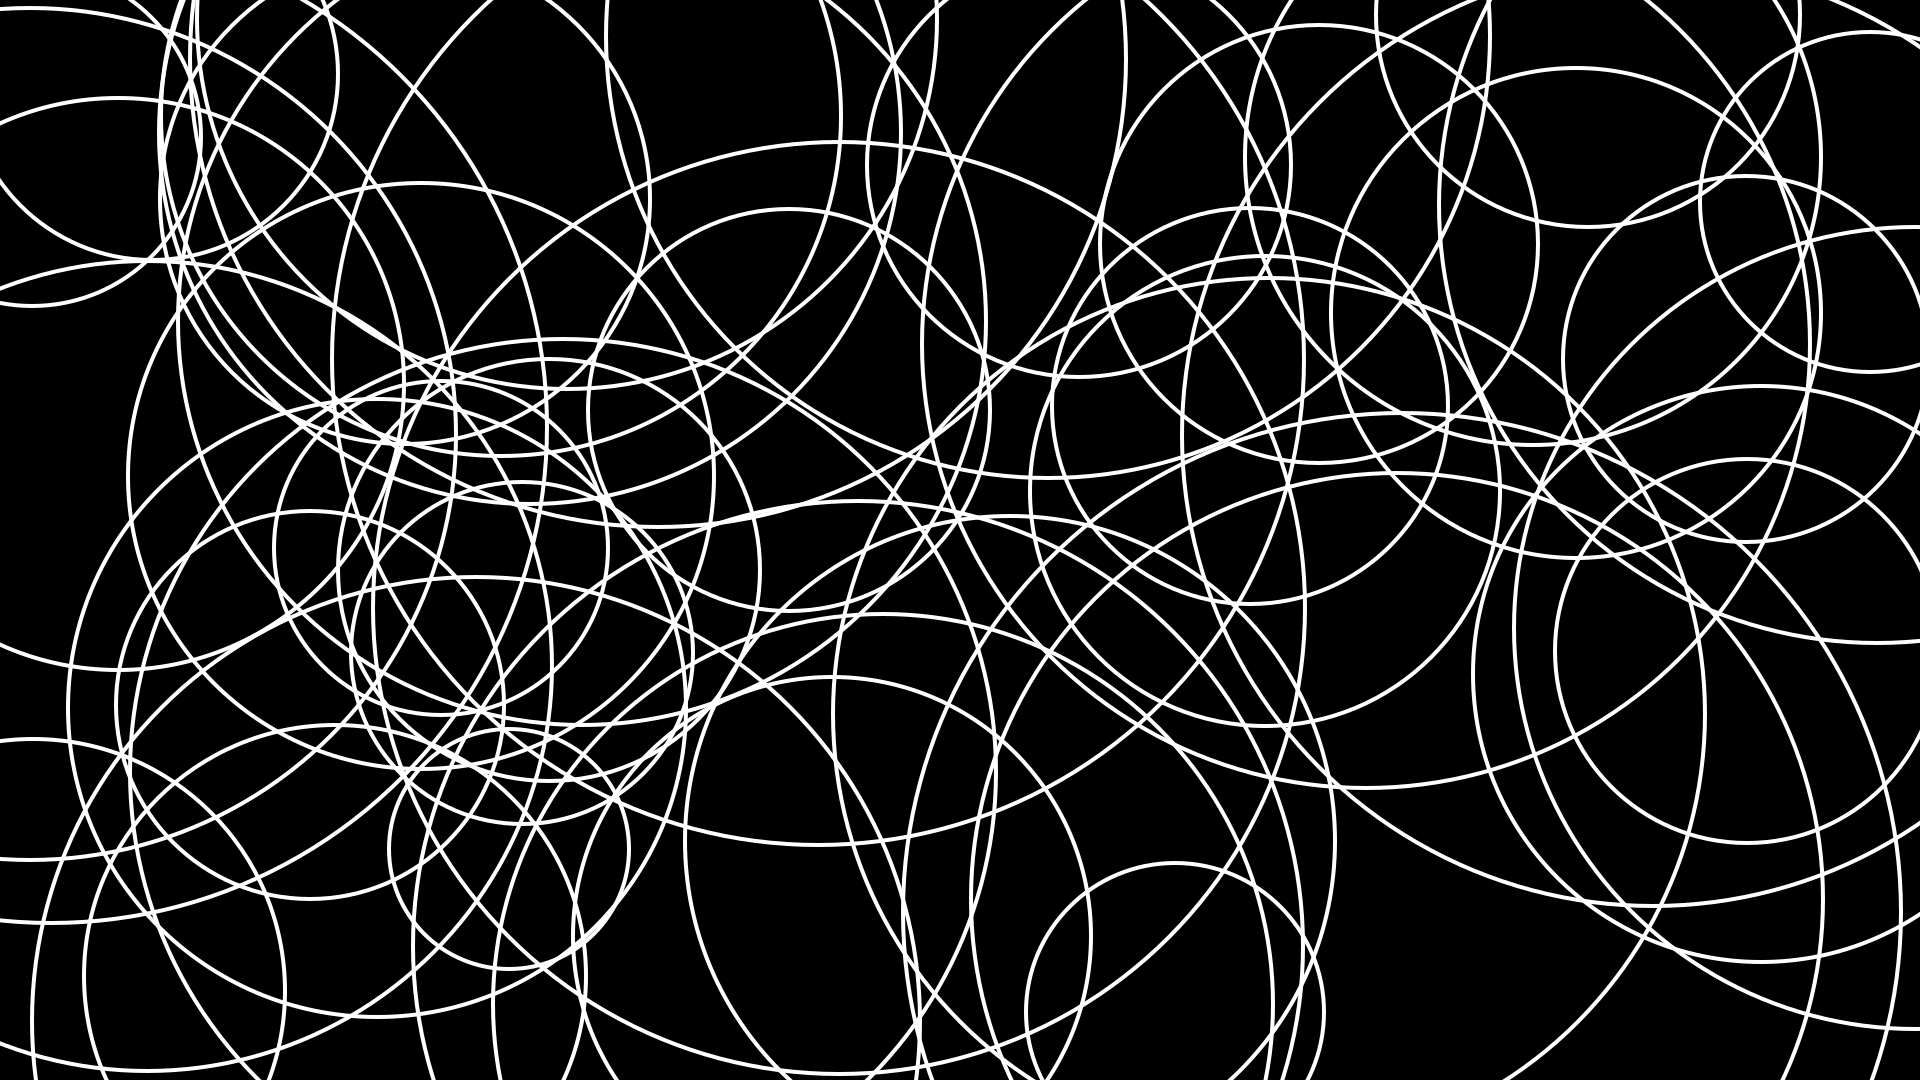
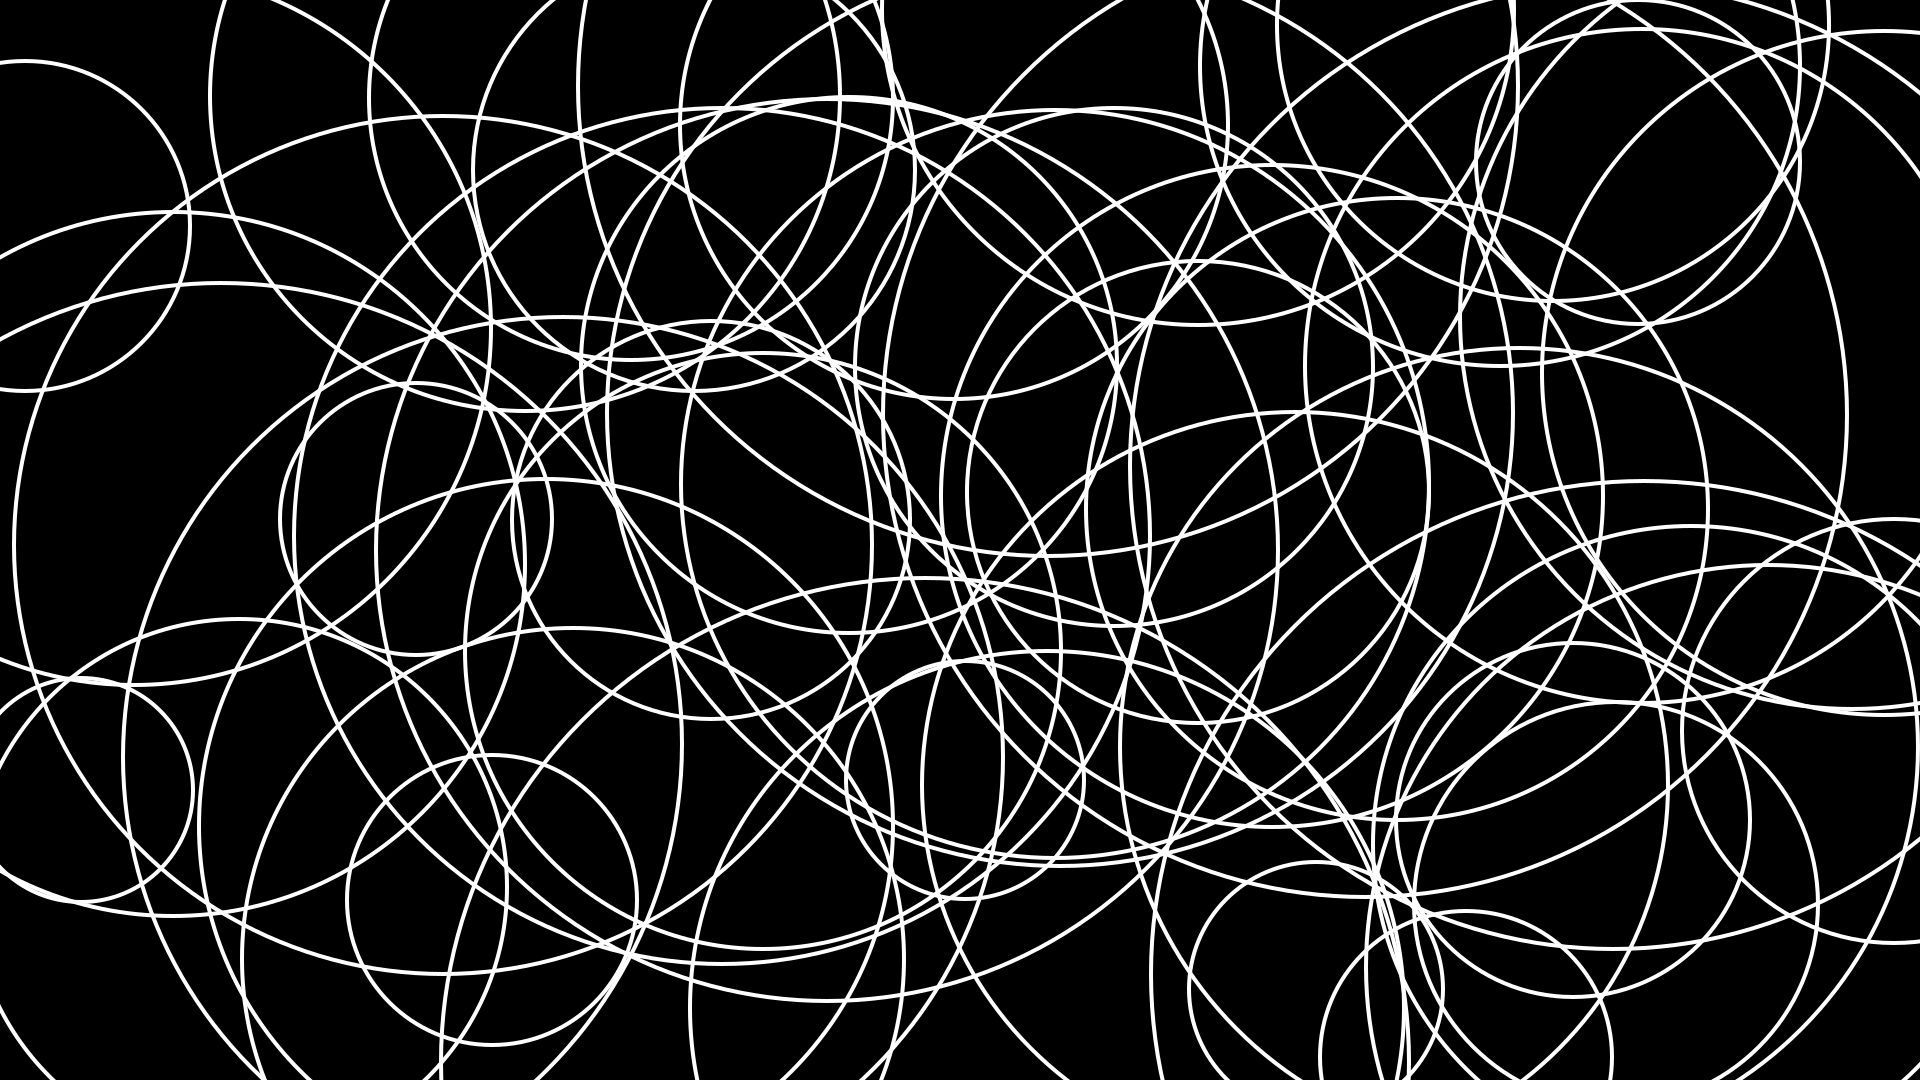
update

diff --git a/Terminal/fond_ecran.py b/Terminal/fond_ecran.py
@@ -153,10 +153,10 @@ class Fond:
         """
         dist_gauche = position[0]
         dist_droite = self.largeur - 1 - position[0]
-        dist_bas = ... 
-        dist_haut = ...
+        dist_bas = self.hauteur - 1 - position[1]
+        dist_haut = position[1]
 
-        return ...
+        return min(dist_gauche, dist_droite, dist_bas, dist_haut)
 
     def rayon_max_cercles(self, position):
         """Détermine le rayon maximal du cercle possible à la
@@ -173,9 +173,9 @@ class Fond:
         # on ne s'interdit rien au départ !
         r_max = float('inf')
         for c in self.cercles:
-            nv_rayon_possible = Cercle.Cercle.distance(position, ...) - ...
-            r_max = min(...)
-        return ...
+            nv_rayon_possible = Cercle.distance(position, c.centre) - c.rayon
+            r_max = min(r_max, nv_rayon_possible)
+        return r_max
 
     def tracer_cercles(self, effectif, couleur):
         """Construit les cercles en nombre demandé. Les cercles ne
@@ -196,9 +196,9 @@ class Fond:
         """
         for _ in range(effectif):
 
-            position_valide = ...
+            position_valide = False
             while not position_valide:
-                x, y = ...
+                x, y = random.randrange(0, self.largeur), random.randrange(0, self.hauteur)
                 position_valide = not self.est_dans_un_cercle((x, y))
 
             position = (x, y)
